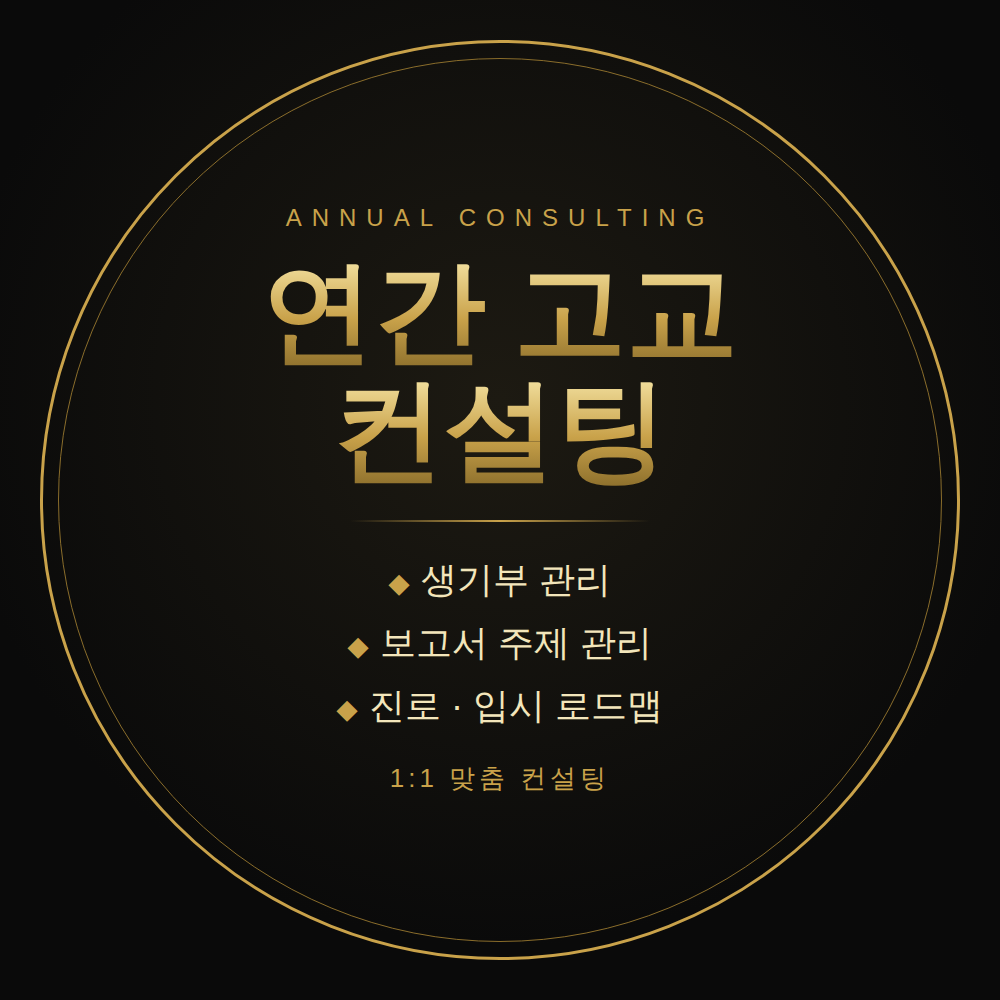
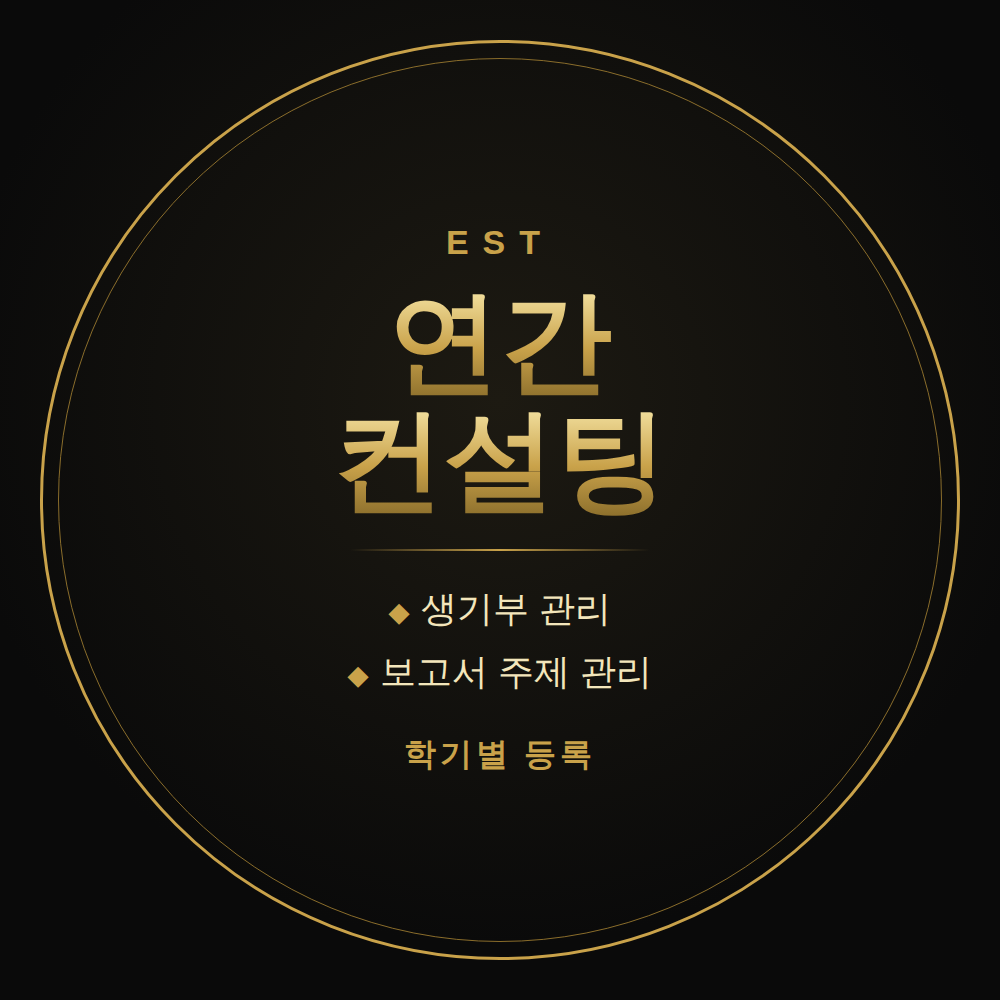
Update profile: 연간 컨설팅, EST, 학기별 등록
Claude-Session: https://claude.ai/code/session_01T1f8tBVaUJTjgG7YD3jWCw

Changed region(s): [[0.248, 0.217, 0.744, 0.527], [0.341, 0.558, 0.682, 0.806]]

diff --git a/profile.html b/profile.html
@@ -7,23 +7,22 @@ body{width:1000px;height:1000px;background:#0a0a0a;font-family:'Noto Sans KR',sa
 .ring{position:absolute;inset:40px;border:3px solid #c9a24a;border-radius:50%}
 .ring2{position:absolute;inset:58px;border:1px solid #8a6d2b;border-radius:50%}
 .wrap{position:absolute;inset:0;display:flex;flex-direction:column;align-items:center;justify-content:center;text-align:center}
-.en{font-size:24px;letter-spacing:10px;color:#c9a24a;margin-bottom:22px}
+.en{font-size:34px;letter-spacing:14px;font-weight:700;color:#c9a24a;margin-bottom:22px}
 .t1{font-family:'Noto Serif KR',serif;font-weight:900;font-size:112px;line-height:1.05;
 background:linear-gradient(180deg,#f7e7a8,#c9a24a 55%,#8a6d2b);-webkit-background-clip:text;color:transparent}
 .t2{font-family:'Noto Serif KR',serif;font-weight:700;font-size:56px;color:#f1dfa0;margin-top:6px;letter-spacing:6px}
 .line{width:300px;height:2px;background:linear-gradient(90deg,transparent,#c9a24a,transparent);margin:30px 0 26px}
 .item{font-size:36px;font-weight:500;color:#f3e6bb;line-height:1.75}
 .item b{color:#c9a24a;margin-right:12px;font-size:26px}
-.foot{margin-top:24px;font-size:26px;color:#c9a24a;letter-spacing:4px}
+.foot{margin-top:30px;font-size:32px;font-weight:700;color:#c9a24a;letter-spacing:4px}
 </style></head><body>
 <div class="bg"></div><div class="ring"></div><div class="ring2"></div>
 <div class="wrap">
-<div class="en">ANNUAL CONSULTING</div>
-<div class="t1">연간 고교</div>
+<div class="en">EST</div>
+<div class="t1">연간</div>
 <div class="t1">컨설팅</div>
 <div class="line"></div>
 <div class="item"><b>◆</b>생기부 관리</div>
 <div class="item"><b>◆</b>보고서 주제 관리</div>
-<div class="item"><b>◆</b>진로 · 입시 로드맵</div>
-<div class="foot">1:1 맞춤 컨설팅</div>
+<div class="foot">학기별 등록</div>
 </div></body></html>
